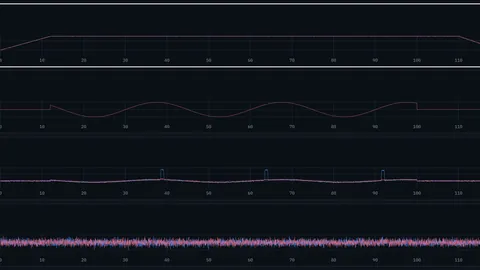
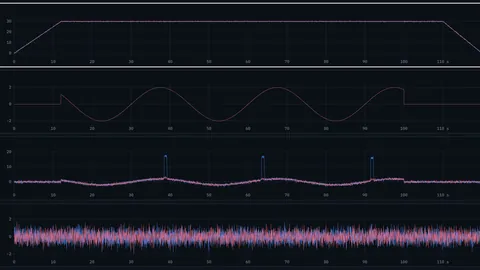
Release 1.28.0: pictures retaken, six card pictures, media tool follows FR11
Claude-Session: https://claude.ai/code/session_0146GPW6DnWzbhbUu7wZfCQJ

diff --git a/tools/make_readme_media.py b/tools/make_readme_media.py
@@ -643,9 +643,9 @@ MENU_LABEL = {"flight": "a drone flight", "car": "three car runs", "bench": "a p
 
 def _example(pg, ex, ready, settle=1200):
     """Open a welcome-screen example as a new user does, and wait until it is drawn."""
-    card = pg.locator(f".ex-card[data-example='{ex}']")
-    if card.count():
-        card.first.click()
+    pg.wait_for_selector(".ex-card")                                    # the cards come with the list of examples
+    if ex not in MENU_LABEL:
+        pg.locator(f".ex-card[data-example='{ex}']").first.click()
     else:                                         # FR11: not one of the six cards - Help -> Examples
         pg.locator(".topbar .menubar-btn", has_text="Help").click()
         pg.locator(".menu.ctx button", has_text="Examples").click()
@@ -725,8 +725,7 @@ def img_39_smart_sweep_demo(b, app):
 def img_40_common_gains(b, app):
     """One set of gains for three drones: the shared answer, why the others fail."""
     ctx, pg = page(b, app)
-    pg.locator(".ex-card[data-example='commonGains']").first.click()
-    pg.wait_for_selector("[data-shot][data-settled='1']", timeout=180000); pg.wait_for_timeout(2000)
+    _example(pg, "commonGains", "[data-shot][data-settled='1']", 2000)
     shot(pg, "40_common_gains"); ctx.close()
 
 
@@ -836,7 +835,8 @@ def img_examples(browser, app):
     os.makedirs(EX_PICS, exist_ok=True)
     sets = json.loads(urllib.request.urlopen(app.url + "/api/examples").read())
     only = [x for x in os.environ.get("SV_EX_ONLY", "").split(",") if x]          # e.g. SV_EX_ONLY=car,sweepTable
-    for ex in [x for x in sets if not only or x["id"] in only]:
+    # FR11: only the six cards on the welcome screen have a picture (the others are in Help -> Examples)
+    for ex in [x for x in sets if x["id"] not in MENU_LABEL and (not only or x["id"] in only)]:
         for theme in ("dark", "light"):
             ctx, pg = page(browser, app, dark=theme == "dark", scale=2)
             try:

diff --git a/docs/dev/TASKS.md b/docs/dev/TASKS.md
@@ -21,9 +21,9 @@ What is open, in order (the finished history is in the Log and in git: `git show
 | M34 end of round | done - 503 e2e green | the owner tags (the version is not updated here) |
 | M34 FR9 - quick_check + the short e2e list in CI on every push | owner: not now | - |
 | M34 FR10 - `frontend/dist` and `site/` out of git, built in the release job | done (owner: yes) | - |
-| M34 FR11 - welcome cards 11 -> 6, the rest under Help -> Examples | done (owner: yes, one Sweeps) | retake picture 38_welcome_cards with the release |
+| M34 FR11 - welcome cards 11 -> 6, the rest under Help -> Examples | done (owner: yes, one Sweeps) | - |
 | M34 FR12 - e2e files named by feature, not by round | done (owner: yes) | - |
-| Release 1.28.0 (with SF1; M34 is "Next - unreleased") | ready, not tagged | the owner tags; the version is not updated here |
+| Release 1.28.0 (with SF1 and M34; CHANGELOG 2026-11-17) | ready, not tagged | the owner tags v1.28.0 |
 | SW2 (b) - Run again with recording | spec agreed in parts | the owner's final yes on "Open specs" below - do not implement before |
 | BR1 - the app as one process (README, docs home, welcome groups) | proposed | the owner's yes on the wording below |
 | Stability on Windows with a GPU (Out of Memory, the 3D shader) | waiting for numbers | the owner runs `tools/measure_maps.py --gpu`; the e2e suite's memory |
@@ -389,3 +389,4 @@ What is open, in order (the finished history is in the Log and in git: `git show
 - 2026-11-16 · FR11: six welcome cards (one Sweeps: the smart-sweep demo), every example in Help → Examples; tests through `open_example`. e2e ran: test_welcome_cards, test_map_memory, test_compare_diff, test_compare_params, test_compare_tolerances, test_folder_of_recordings, test_judge_a_run, test_study_common, test_sweeps_flow, test_sweeps_workspace, test_file_help_menus, test_workflows, test_first_minute, test_fresh_user, test_calm_screen, test_tour, test_plot_room, test_cursor_labels, test_file_colours, test_study_demo - 136 green (test_fresh_user's examples moved to open_example).
 - 2026-11-16 · FR12: test_release_1_21 -> test_tuning_tools, test_round_1112 -> test_map_places_story_export, test_owner_notes_1_20 split into test_plot_polish / test_name_tree / test_map_objects / test_sweeps_flow; E2E_MAP says so at its top. e2e ran: those six files - 72 green.
 - 2026-11-16 · M34 end of round: `npm run build` (frontend/dist, now untracked), quick_check green, the WHOLE e2e suite (`python -m pytest -q tests/e2e -n 4 --dist loadfile`): 503 passed, 0 failed, 9 min 55 s. Version not updated - the owner tags.
+- 2026-11-17 · Release 1.28.0 prepared (owner: "is it ready?"): M34 folded into 1.28.0 (CHANGELOG dated 2026-11-17, highlights), CITATION dated; README / install / features checked against the CHANGELOG (from source needs Node.js; plot head, cursors, colours, recordings, Sweeps starts, formulas); mkdocs --strict green; pictures retaken (make_readme_media: every docs/images picture and the six cards' pictures - the five moved examples' card pictures removed; the tool waits for the cards and opens moved examples from Help). Owner on FR10: dist stays out of git; `build.bat wheels` / `build.sh wheels` now build the UI so an offline PC gets it. The whole e2e suite ran on 2026-11-16 (503 green) - only docs, pictures and build scripts changed since. Waiting for the owner's tag v1.28.0.
